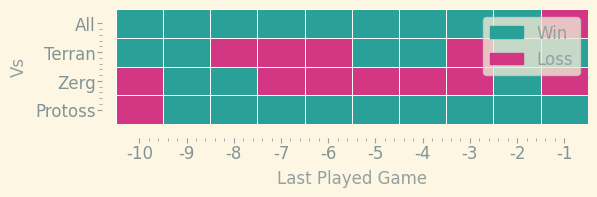
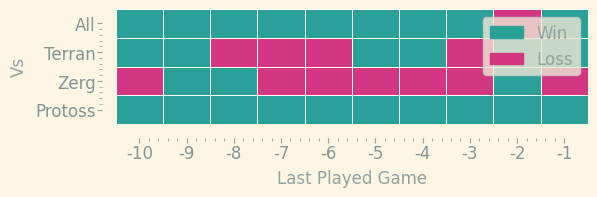
running on push

Changed region(s): [[0.8141, 0.0305, 0.995, 0.2132], [0.1809, 0.4873, 0.2714, 0.6396]]

diff --git a/docs/index.md b/docs/index.md
@@ -18,11 +18,11 @@ layout: home
   <tbody>
     <tr>
       <td>Matches Played</td>
-      <td>1303</td>
+      <td>1304</td>
     </tr>
     <tr>
       <td>MMR Gained</td>
-      <td>12257</td>
+      <td>12280</td>
     </tr>
     <tr>
       <td>MMR lost</td>
@@ -114,7 +114,7 @@ layout: home
 
 | Race    |   Wins |   Losses |   Total |   Win Rate (%) |   MMR Gained |   MMR Lost |
 |:--------|-------:|---------:|--------:|---------------:|-------------:|-----------:|
-| Protoss |    229 |      293 |     522 |        43.8697 |         4159 |       5098 |
+| Protoss |    229 |      294 |     523 |        43.7859 |         4159 |       5098 |
 | Terran  |    134 |      187 |     321 |        41.7445 |         3490 |       2626 |
 | Zerg    |    257 |      190 |     447 |        57.4944 |         3975 |       4164 |
 
